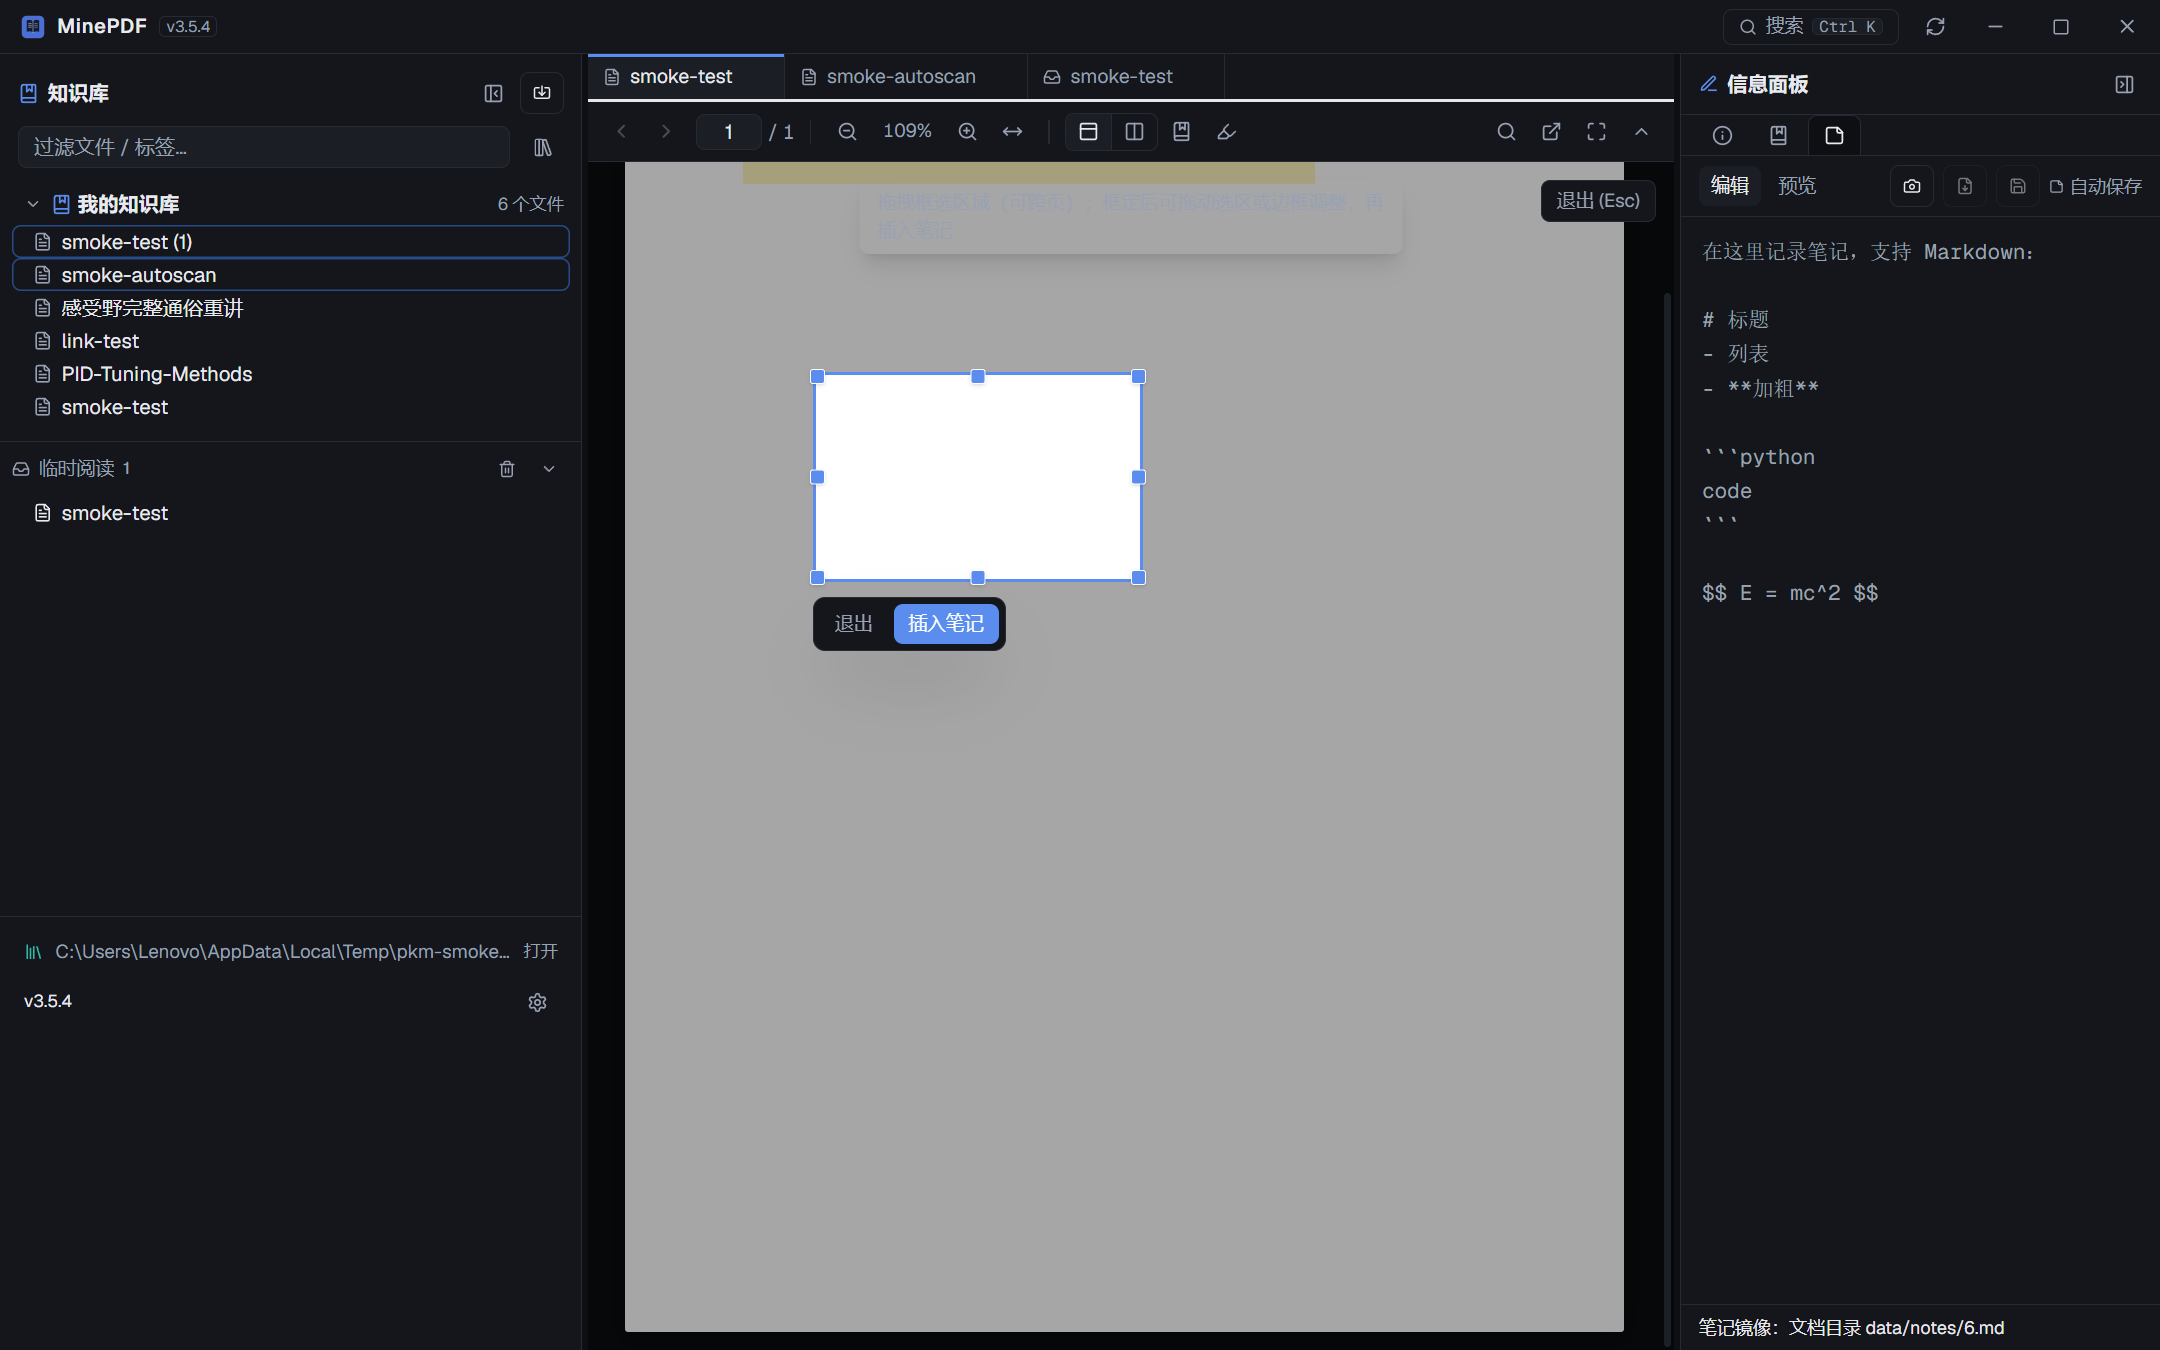
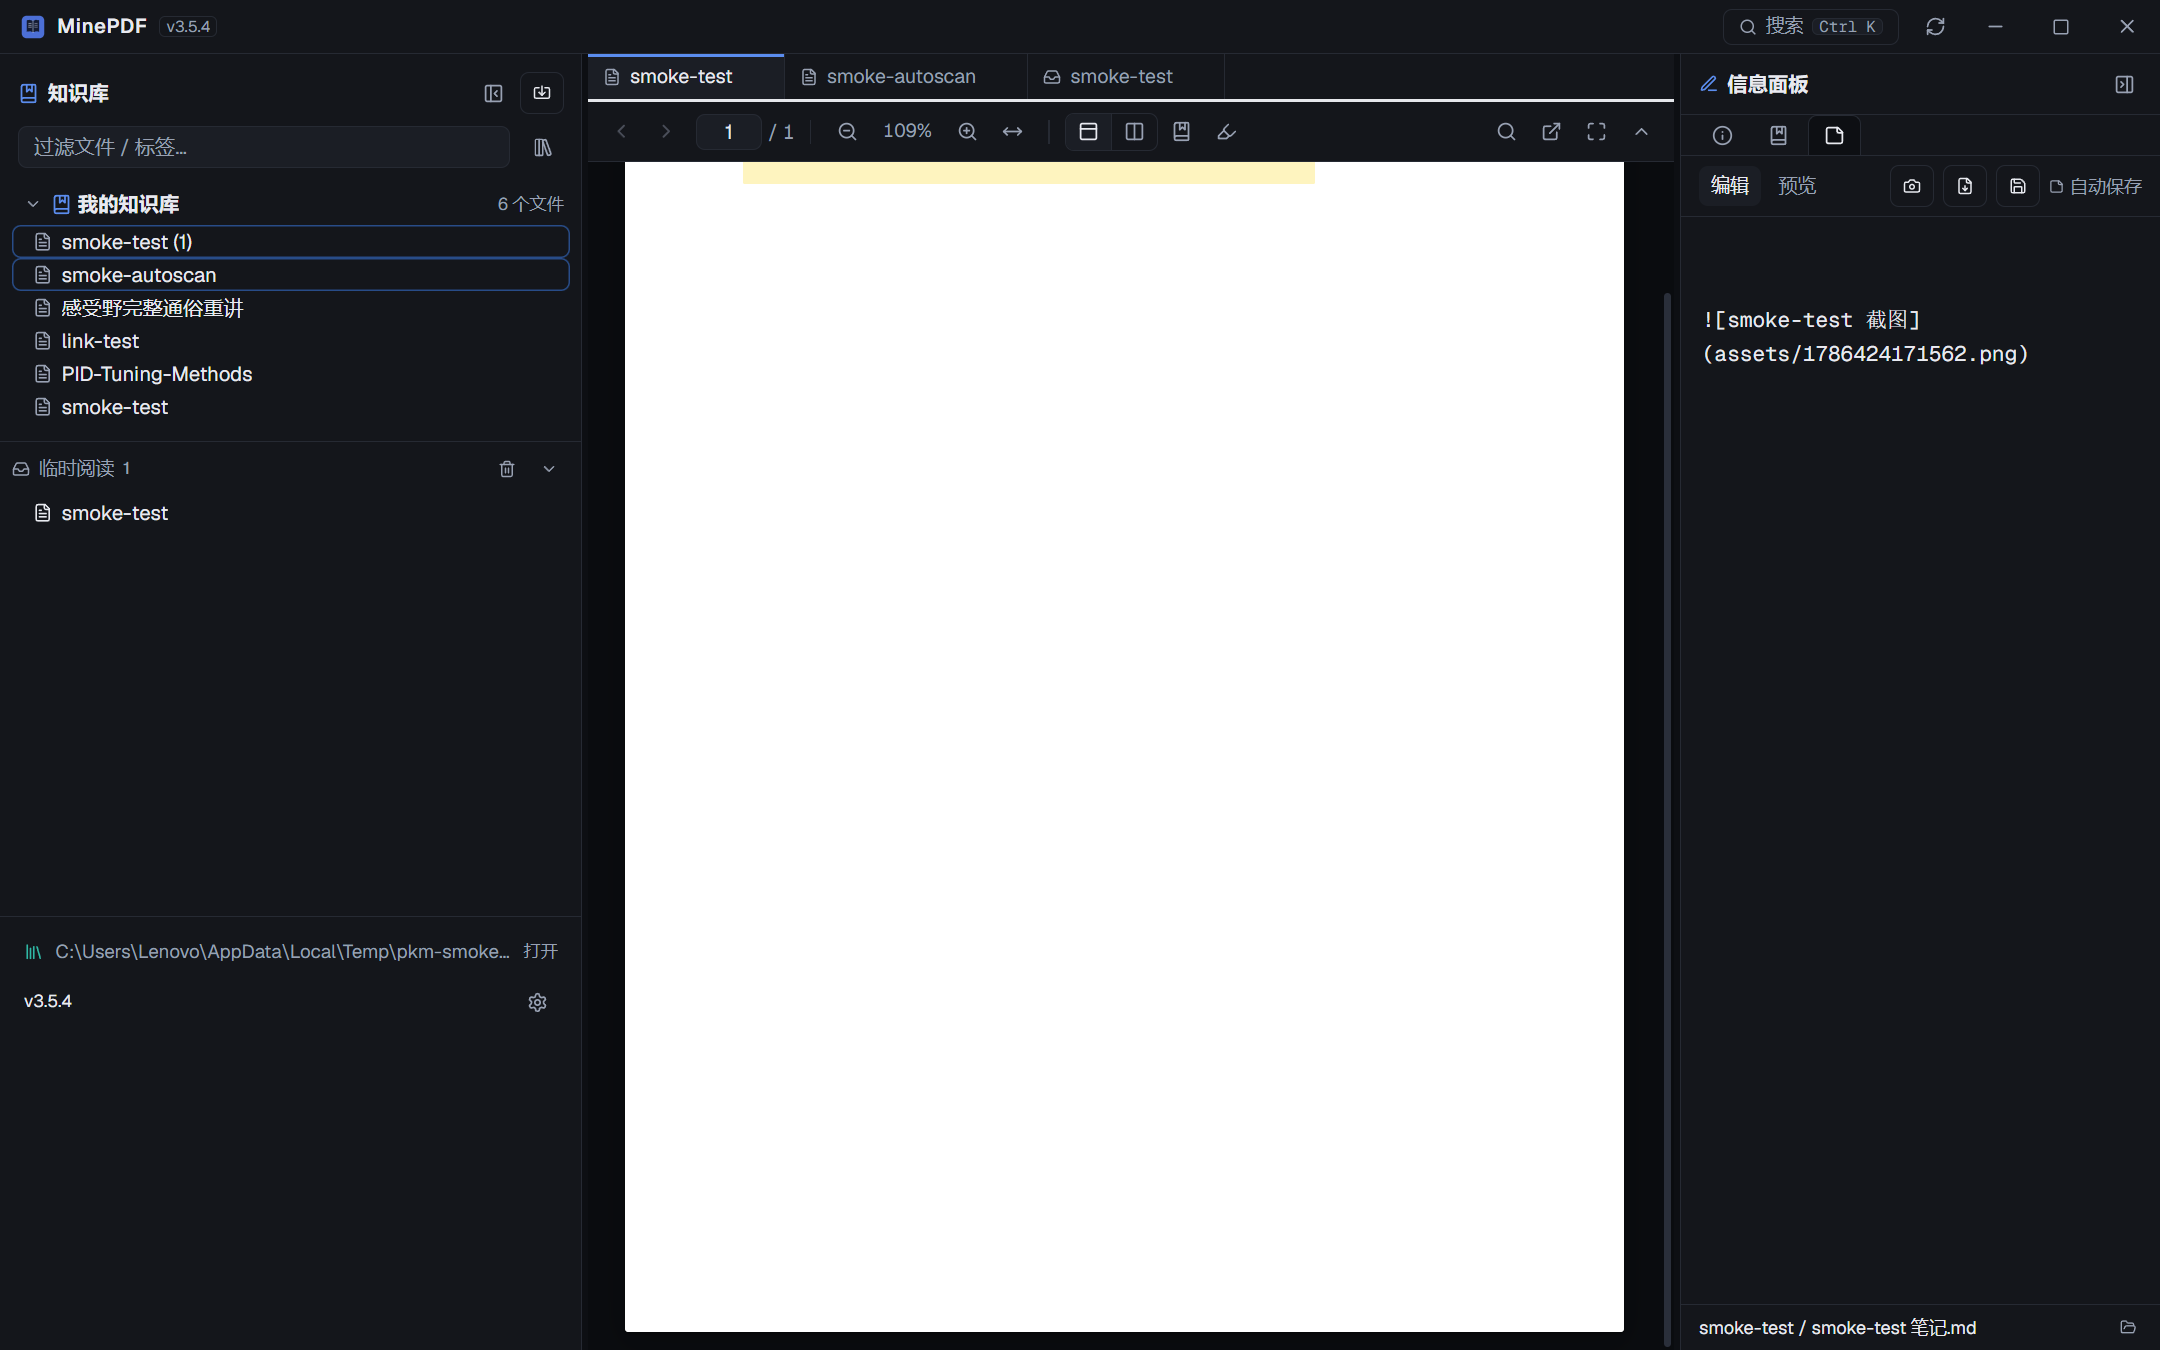
fix: 修复标签右键菜单被裁剪不可见——边栏/顶部折叠动画容器的transform使fixed菜单被overflow裁切，改为纯max-height+opacity过渡；新增标签右键菜单回归测试

diff --git a/electron/main.ts b/electron/main.ts
@@ -1290,6 +1290,27 @@ async function createMainWindow(): Promise<BrowserWindow> {
                   })()
                 `);
                 console.log('[capture] tabsDiag', JSON.stringify(tabsDiag));
+                // 标签右键菜单回归：确认关闭/分屏功能菜单正常弹出且不被裁切
+                const tabMenuDiag = await win.webContents.executeJavaScript(`
+                  (async () => {
+                    const snap = await window.pkm.getSnapshot();
+                    const a = snap.pdfs.find((p) => p.filename === 'smoke-test.pdf');
+                    if (!a) return { pdf: false };
+                    window.__pkmAct('clearScreens');
+                    window.__pkmOpenPdf(a.id);
+                    if (window.__pkmAct) window.__pkmAct('openPdfInNewTab', a.id);
+                    await new Promise((r) => setTimeout(r, 1400));
+                    const tab = [...document.querySelectorAll('button')].find((b) => (b.textContent || '').includes('smoke-test'));
+                    if (!tab) return { tab: false };
+                    const tr = tab.getBoundingClientRect();
+                    tab.dispatchEvent(new MouseEvent('contextmenu', { clientX: tr.left + 10, clientY: tr.top + 10, bubbles: true, cancelable: true }));
+                    await new Promise((r) => setTimeout(r, 300));
+                    const menuItems = ['关闭', '关闭其他标签', '关闭全部标签', '上下分屏', '左右分屏'];
+                    const found = menuItems.filter((label) => [...document.querySelectorAll('button')].some((b) => (b.textContent || '').trim() === label));
+                    return { tab: true, menuFound: found.length, missing: menuItems.filter((l) => !found.includes(l)) };
+                  })()
+                `);
+                console.log('[capture] tabMenuDiag', JSON.stringify(tabMenuDiag));
                 // 书签面板工具条（搜索/定位/折叠）验证
                 const outlineUiDiag = await win.webContents.executeJavaScript(`
                   (async () => {

diff --git a/src/components/Viewer/PdfViewer.tsx b/src/components/Viewer/PdfViewer.tsx
@@ -1306,10 +1306,10 @@ export function PdfViewer({ pdf, paneId, onMissing, paneActive = true }: PdfView
             {/* 工具栏滑出动画（不突然出现） */}
             <div
               data-immersive-toolbar
-              className={`overflow-hidden transition-[max-height,opacity,transform] duration-300 ease-out ${
+              className={`overflow-hidden transition-[max-height,opacity] duration-300 ease-out ${
                 immersiveTopOpen
-                  ? 'max-h-16 translate-y-0 opacity-100'
-                  : 'max-h-0 -translate-y-2 opacity-0'
+                  ? 'max-h-16 opacity-100'
+                  : 'max-h-0 opacity-0'
               }`}
             >
               <PdfToolbar

diff --git a/src/components/Viewer/ScreenViewer.tsx b/src/components/Viewer/ScreenViewer.tsx
@@ -47,10 +47,10 @@ export function ScreenViewer({
     >
       {/* 沉浸式：标签栏与工具栏联动折叠，悬停顶部一起滑出 */}
       <div
-        className={`overflow-hidden transition-[max-height,opacity,transform] duration-300 ease-out ${
+        className={`overflow-hidden transition-[max-height,opacity] duration-300 ease-out ${
           immersive && !immersiveTopOpen
-            ? 'max-h-0 -translate-y-2 opacity-0'
-            : 'max-h-8 translate-y-0 opacity-100'
+            ? 'max-h-0 opacity-0'
+            : 'max-h-8 opacity-100'
         }`}
       >
         <TabBar screen={screen} active={active} />
